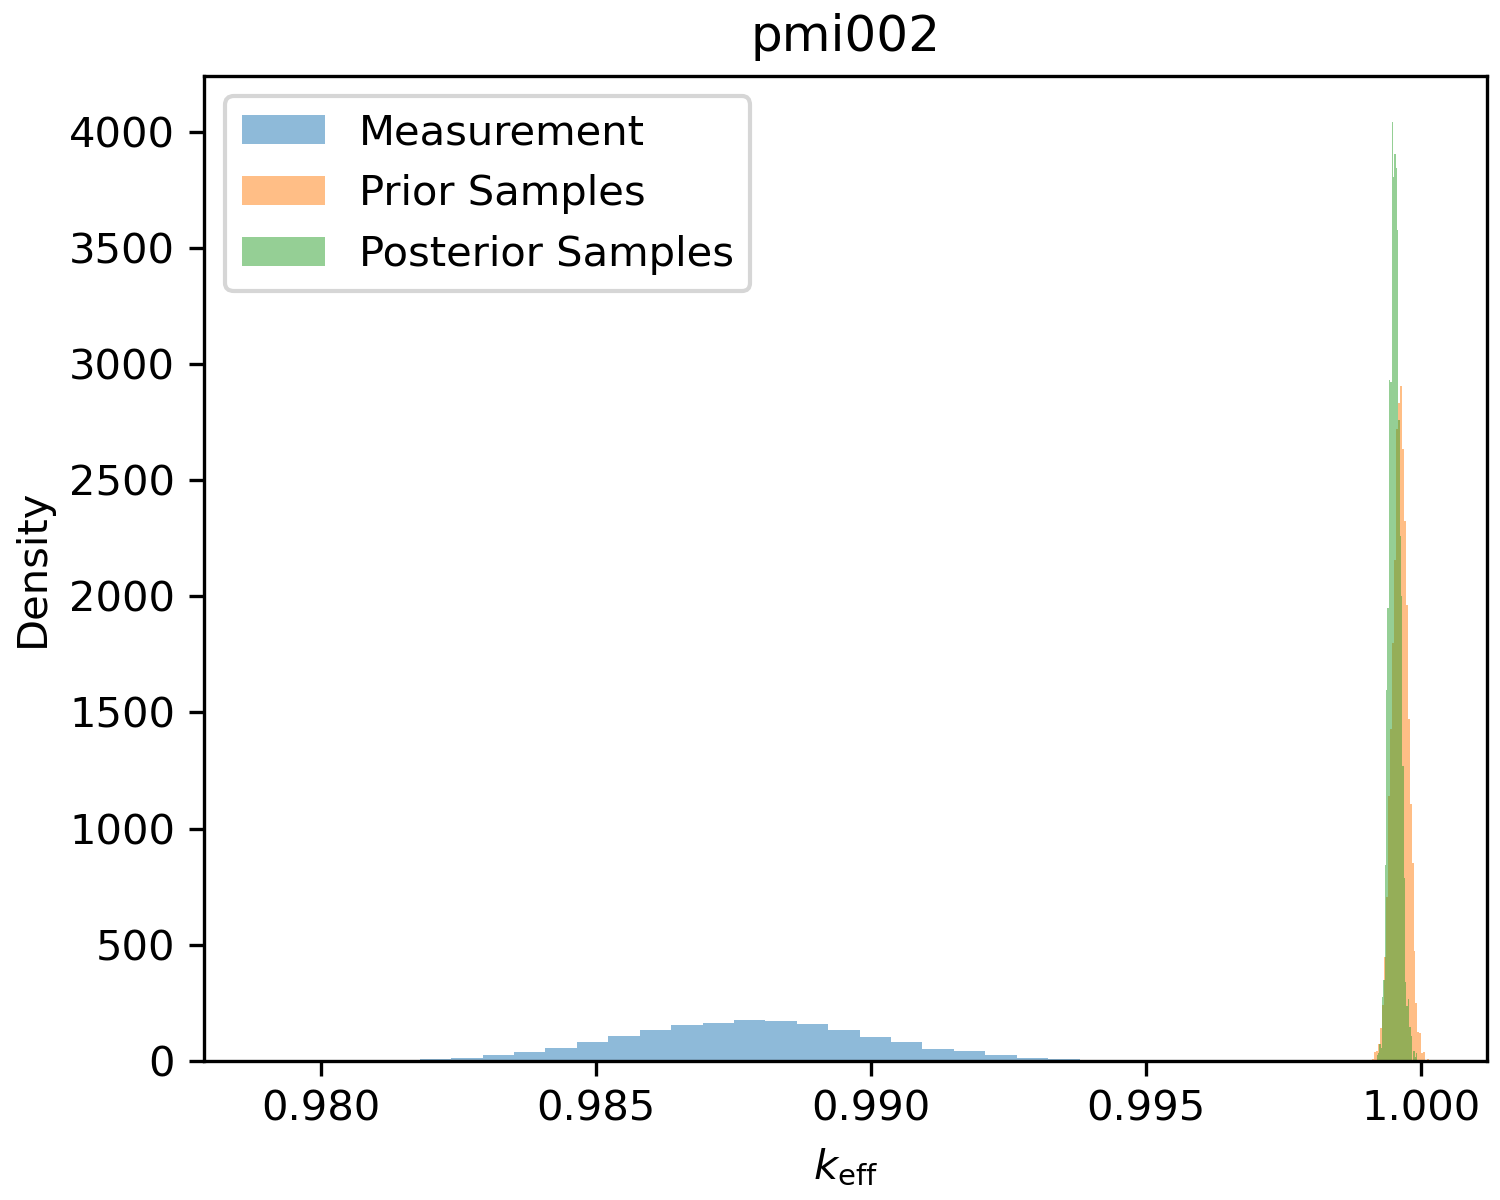
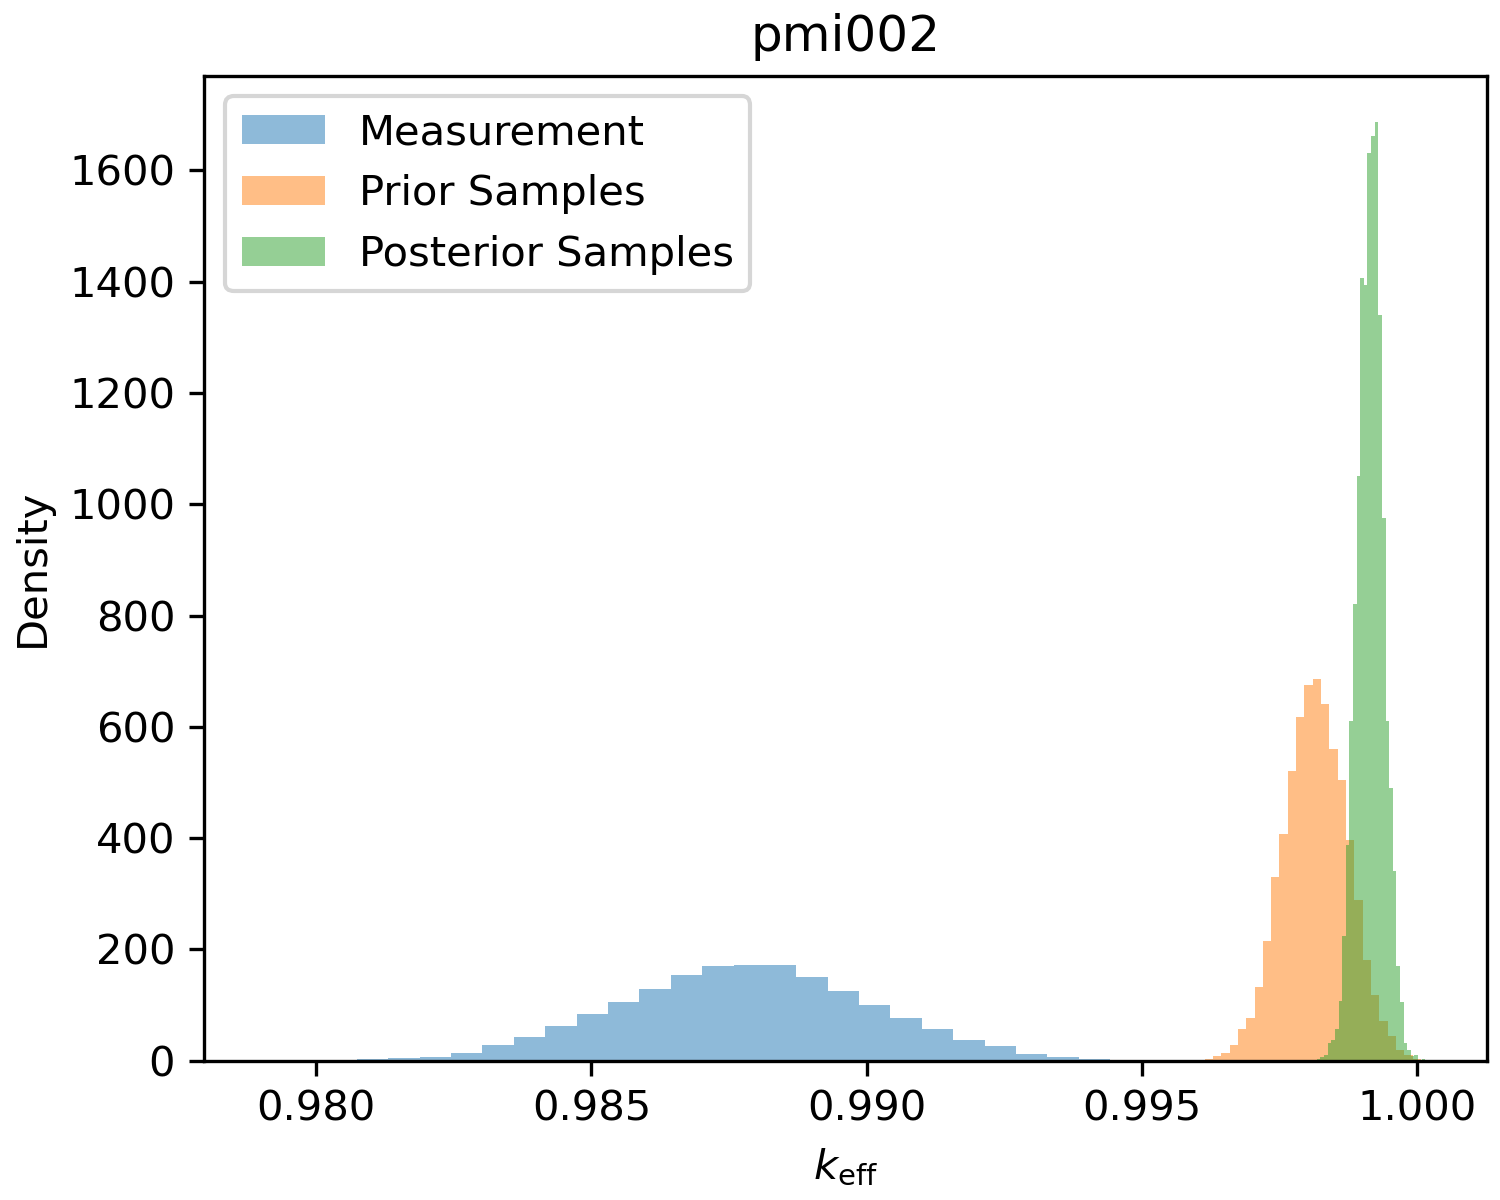
correction relative standard deviation and combined plot

diff --git a/mcmc_inference/02_mcmc.py b/mcmc_inference/02_mcmc.py
@@ -6,6 +6,7 @@ import arviz as az
 from scipy.stats import multivariate_normal, norm
 from tqdm import tqdm
 import yaml
+import argparse
 
 def load_config(config_path):
     with open(config_path, 'r') as f:
@@ -14,12 +15,14 @@ def load_config(config_path):
 class IntegralExperiment:
     """
     Evaluates the likelihood for an integral experiment using its specific GP.
+    Now supports mapping specific global parameters to GP inputs.
     """
-    def __init__(self, exp_id, gp_path, y_meas, y_err, weight=1.0):
+    def __init__(self, exp_id, gp_path, y_meas, y_err, input_indices, weight=1.0):
         self.id = exp_id
-        self.weight = 1.0
+        self.weight = weight
         self.y_meas = y_meas
         self.y_err = y_err
+        self.input_indices = input_indices # List of integers (e.g., [0, 2])
         
         # Load the surrogate model artifacts
         if not os.path.exists(gp_path):
@@ -31,9 +34,13 @@ class IntegralExperiment:
         """
         Calculates ln L(D_i | theta)
         """
-        
+        # 1. Slice the Master Vector to get only relevant parameters
+        # If theta is [p1, p2, p3] and indices are [0, 2], we get [p1, p3]
+        relevant_theta = theta[self.input_indices]
+
         # 2. GP Prediction
-        pred_mean, pred_std = self.gp.predict(theta.reshape(-1,1), return_std=True)
+        # Reshape to (1, n_features) for scikit-learn compatibility
+        pred_mean, pred_std = self.gp.predict(relevant_theta.reshape(1, -1), return_std=True)
         
         # Flatten (handle cases where predict returns shape (1,1) or (1,))
         mu_gp = pred_mean.item()
@@ -48,16 +55,23 @@ class IntegralExperiment:
 class MicroscopicExperiment:
     """
     Evaluates the likelihood for a microscopic experiment using its specific GP.
+    Now supports mapping specific global parameters to GP inputs.
     """
-    def __init__(self, exp_id, C, gp_path, weight=1.0):
+    def __init__(self, exp_id, C, gp_path, input_indices, weight=1.0):
         self.id = exp_id
         self.C = C
         self.weight = weight
+        self.input_indices = input_indices # List of integers
         self.gp = joblib.load(gp_path)
 
     def get_log_likelihood(self, theta):
-        # GP predicts the Chi-Squared value
-        chi2_val = self.gp.predict(theta.reshape(-1,1))
+        # 1. Slice the Master Vector
+        relevant_theta = theta[self.input_indices]
+
+        # 2. GP predicts the Chi-Squared value
+        # Reshape to (1, n_features)
+        chi2_val = self.gp.predict(relevant_theta.reshape(1, -1))
+        
         chi2 = max(0.0, chi2_val.item()) # Clamp to 0
         
         # Standard Likelihood = -0.5 * Chi2
@@ -106,13 +120,13 @@ def run_joint_mcmc(config_path):
     cfg = load_config(config_path)
     print(f"--- Starting Joint Inference: {cfg['project_name']} ---")
 
-    # 2. Parse Prior Information
-    prior_names = cfg['parameters']['names']
-    prior_means = cfg['parameters']['prior_means']
-    prior_stds = cfg['parameters']['prior_stds']
+    # 2. Parse Prior Information (The Global Parameter List)
+    global_param_names = cfg['parameters']['names'] # List of strings
+    prior_means = np.array(cfg['parameters']['prior_means'])
+    print(prior_means)
+    prior_stds = np.array(cfg['parameters']['prior_stds']) * prior_means
 
-
-    print(f"   Calibrating {len(prior_names)} parameters: {prior_names}")
+    print(f"   Calibrating {len(global_param_names)} parameters: {global_param_names}")
 
     # 3. Initialize Evaluators for each Experiment
     models = []
@@ -121,22 +135,36 @@ def run_joint_mcmc(config_path):
     for exp in cfg['experiments']:
         gp_path = os.path.join("models", f"{exp['id']}_gp.joblib")
         
+        # --- NEW LOGIC: MAP PARAMETER NAMES TO INDICES ---
+        # Look for 'parameters' key in the experiment config. 
+        # If missing, assume it uses ALL global parameters (legacy support).
+        exp_param_names = exp.get('parameters', global_param_names)
+        
+        try:
+            # Create a list of indices, e.g., ['density'] -> [1]
+            input_indices = [global_param_names.index(name) for name in exp_param_names]
+        except ValueError as e:
+            print(f"Error in {exp['id']}: Parameter name mismatch. {e}")
+            continue
+
         try:
             if exp['type'] == "integral":
                 exp_obj = IntegralExperiment(
                     exp_id=exp['id'],
                     gp_path=gp_path,
                     y_meas=exp['experimental_data']['measurement'],
-                    y_err=exp['experimental_data']['uncertainty']
+                    y_err=exp['experimental_data']['uncertainty'],
+                    input_indices=input_indices # Pass the map
                 )
             elif exp['type'] == "microscopic":
                 exp_obj = MicroscopicExperiment(
                     exp_id=exp['id'],
-                    C = exp['training_data']['C_constant'],
+                    C=exp['training_data']['C_constant'],
                     gp_path=gp_path,
+                    input_indices=input_indices # Pass the map
                 )
             models.append(exp_obj)
-            print(f"    - Loaded {exp['id']}")
+            print(f"    - Loaded {exp['id']} (Inputs: {exp_param_names} -> Indices: {input_indices})")
         except FileNotFoundError:
             print(f"    !! Skipping {exp['id']}: GP Model not found.")
 
@@ -153,10 +181,9 @@ def run_joint_mcmc(config_path):
     ndim = len(prior_means)
 
     # Initialize walkers in a tight ball around the prior mean
-    # (Standard practice: start near the prior center)
     pos = np.random.normal(
         loc=prior_means, 
-        scale=np.array(prior_stds),
+        scale=np.array(prior_stds) * 0.1, # Tight initialization
         size=(n_walkers, ndim)
     )
 
@@ -166,12 +193,13 @@ def run_joint_mcmc(config_path):
 
     print(f"\n   Running MCMC: {n_walkers} walkers x {n_steps} steps")
     
-    sampler = emcee.EnsembleSampler(n_walkers, ndim, posterior_fn)
+    sampler = emcee.EnsembleSampler(n_walkers, ndim, posterior_fn, backend=backend)
     state_VC = sampler.run_mcmc(pos, n_steps, progress=True)
     
     # 6. Save Result as Arviz NetCDF
     print("\n   Saving results to NetCDF...")
-    idata = az.from_emcee(sampler, var_names=prior_names)
+    # Discard burn-in (e.g., first 100 steps) for cleaner processing later
+    idata = az.from_emcee(sampler, var_names=global_param_names)
     
     nc_path = os.path.join(cfg['output_dir'], "joint_posterior.nc")
     az.to_netcdf(idata, nc_path)
@@ -182,7 +210,6 @@ def run_joint_mcmc(config_path):
     print(f"   Results saved to: {nc_path}")
 
 if __name__ == "__main__":
-    import argparse
     parser = argparse.ArgumentParser()
     parser.add_argument("--config", type=str, default="configs/config.yaml")
     args = parser.parse_args()

diff --git a/mcmc_inference/03_mcmc_plots.py b/mcmc_inference/03_mcmc_plots.py
@@ -122,11 +122,13 @@ def input_pdf_plot(prior_samples, posterior_samples, save_path):
     ax.legend()
     fig.savefig(save_path, dpi=300)
 
-def output_scatter_plot(exp, prior, posterior, save_path):
+def output_scatter_plot(exp, prior, posterior, save_path, ax=None):
     """
     Plots the prior and posterior predictive distributions for a given experiment.
     """
-    fig, ax = plt.subplots(figsize=(5, 4), layout='constrained')
+    if not ax:
+        fig, ax = plt.subplots(figsize=(5, 4), layout='constrained')
+
     ax.axhline(
         exp.y_meas,
         ls='--',
@@ -165,7 +167,9 @@ def output_scatter_plot(exp, prior, posterior, save_path):
         ylim=(0,None) if exp.type == 'microscopic' else None,
     )
     ax.legend()
-    fig.savefig(save_path, dpi=300)
+    
+    if not ax:
+        fig.savefig(save_path, dpi=300)
 
 def output_pdf_plot(exp, prior, posterior, save_path):
     """
@@ -257,8 +261,8 @@ def plot_mcmc_results(config_path):
 
     # Generate prior samples for predictive checks
     n_prior_samples = 10000
-    prior_means = cfg['parameters']['prior_means']
-    prior_stds = cfg['parameters']['prior_stds']
+    prior_means = np.array(cfg['parameters']['prior_means'])
+    prior_stds = np.array(cfg['parameters']['prior_stds'])*prior_means
     prior_X_samples = np.random.normal(loc=prior_means, scale=prior_stds, size=(n_prior_samples, n_params))
     
     # Extract posterior samples
@@ -314,6 +318,24 @@ def plot_mcmc_results(config_path):
             posterior_X_samples,  
             os.path.join(figures_dir, f"{exp.id}_output_pdf_plot.png")
         )
+
+    # ---------------------------------------------------------
+    # 4. Plot prior and posterior output responses together
+    # ---------------------------------------------------------
+    print("Generating Combined Output Plot...")
+    fig, axs = plt.subplots(1, len(models), figsize=(3*len(models), 4), layout="constrained")
+
+    for i, exp in enumerate(models):   
+
+        output_scatter_plot(
+            exp, 
+            prior_X_samples, 
+            posterior_X_samples,  
+            None,
+            ax=axs[i]
+        )
+
+    fig.savefig(f"{figures_dir}/combined_output_scatter.png", dpi=300)
 
     # ---------------------------------------------------------
     # 5. Save Text Summary
